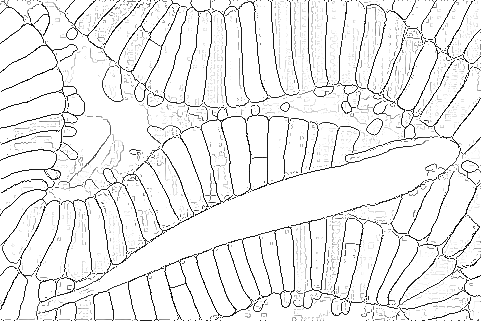
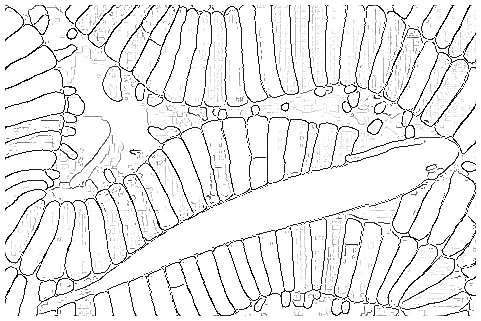
update

diff --git a/automatic_mask_and_probability_generator.py b/automatic_mask_and_probability_generator.py
@@ -63,10 +63,10 @@ def batched_sobel_filter(probs: torch.Tensor, masks: torch.Tensor
     probs = probs.unsqueeze(1)
 
     # sobel_filter: [1, 1, 3, 3]
-    sobel_filter_x = torch.tensor([[[1, 0, -1], [2, 0, -2], [1, 0, -1]]],
+    sobel_filter_x = torch.tensor([[[-1, 0, 1], [-2, 0, 2], [-1, 0, 1]]],
                                   dtype=torch.float32
                                   ).to(probs.device).unsqueeze(0)
-    sobel_filter_y = torch.tensor([[[1, 2, 1], [0, 0, 0], [-1, -2, -1]]],
+    sobel_filter_y = torch.tensor([[[-1, -2, -1], [0, 0, 0], [1, 2, 1]]],
                                   dtype=torch.float32
                                   ).to(probs.device).unsqueeze(0)
 
@@ -82,12 +82,20 @@ def batched_sobel_filter(probs: torch.Tensor, masks: torch.Tensor
         # Convert binary mask to float
         mask = masks[i].float()
 
-        # Extract outer boundary of the mask
-        outer_boundary = F.max_pool2d(mask[None, None], kernel_size=3,
-                                      stride=1, padding=1) - mask
+        G_x = F.conv2d(mask[None, None], sobel_filter_x, padding=1)
+        G_y = F.conv2d(mask[None, None], sobel_filter_y, padding=1)
+        edge = torch.sqrt(G_x ** 2 + G_y ** 2)
+        outer_boundary = (edge > 0).float()
 
         # Set to zero values that don't touch the mask's outer boundary.
         probs[i, 0] = probs[i, 0] * outer_boundary
+
+        # Set to zero values for image border
+        margin = 5
+        probs[i, 0, 0:margin, :] = 0
+        probs[i, 0, -margin:, :] = 0
+        probs[i, 0, :, 0:margin] = 0
+        probs[i, 0, :, -margin:] = 0
 
     # Remove the channel dimension
     probs = probs.squeeze(1)

diff --git a/test.py b/test.py
@@ -23,7 +23,7 @@ def normalize_image(image):
 def get_args():
     # gaussian kernel size for post processing before edge nms
     parser = argparse.ArgumentParser(description='Test output')
-    parser.add_argument('--kernel_size', type=int, default=0,
+    parser.add_argument('--kernel_size', type=int, default=3,
                         help='kernel size')
     args = parser.parse_args()
     return args
@@ -40,7 +40,7 @@ def main():
     kernel_size = args.kernel_size
 
     # make output directory
-    outut_dir = Path(f'output/pred/kernel_size{kernel_size}/test')
+    outut_dir = Path(f'output/pred/ks{kernel_size}/test')
     if outut_dir.exists():
         import shutil
         shutil.rmtree(outut_dir)
